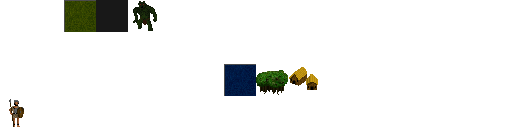
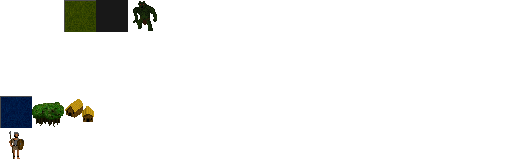
sprite reorganization

diff --git a/Fonts/WorldGlyphAtlas.cs b/Fonts/WorldGlyphAtlas.cs
@@ -8,16 +8,16 @@
         // Terrain
         public const int Terrain_Grassland = 2;
         public const int Terrain_MapEdge = 3;
-        public const int Terrain_Ocean = 39;
+        public const int Terrain_Ocean = 48;
 
-        public const int Feature_Forest = 40;
+        public const int Feature_Forest = 49;
 
         // Units
         public const int Unit_CaveTroll = 4;
-        public const int Unit_Spearman = 48;
+        public const int Unit_Spearman = 64;
 
         // Improvements
-        public const int City = 41;
+        public const int City = 50;
 
         // Gui
         public const int UnitBanner = 8;
